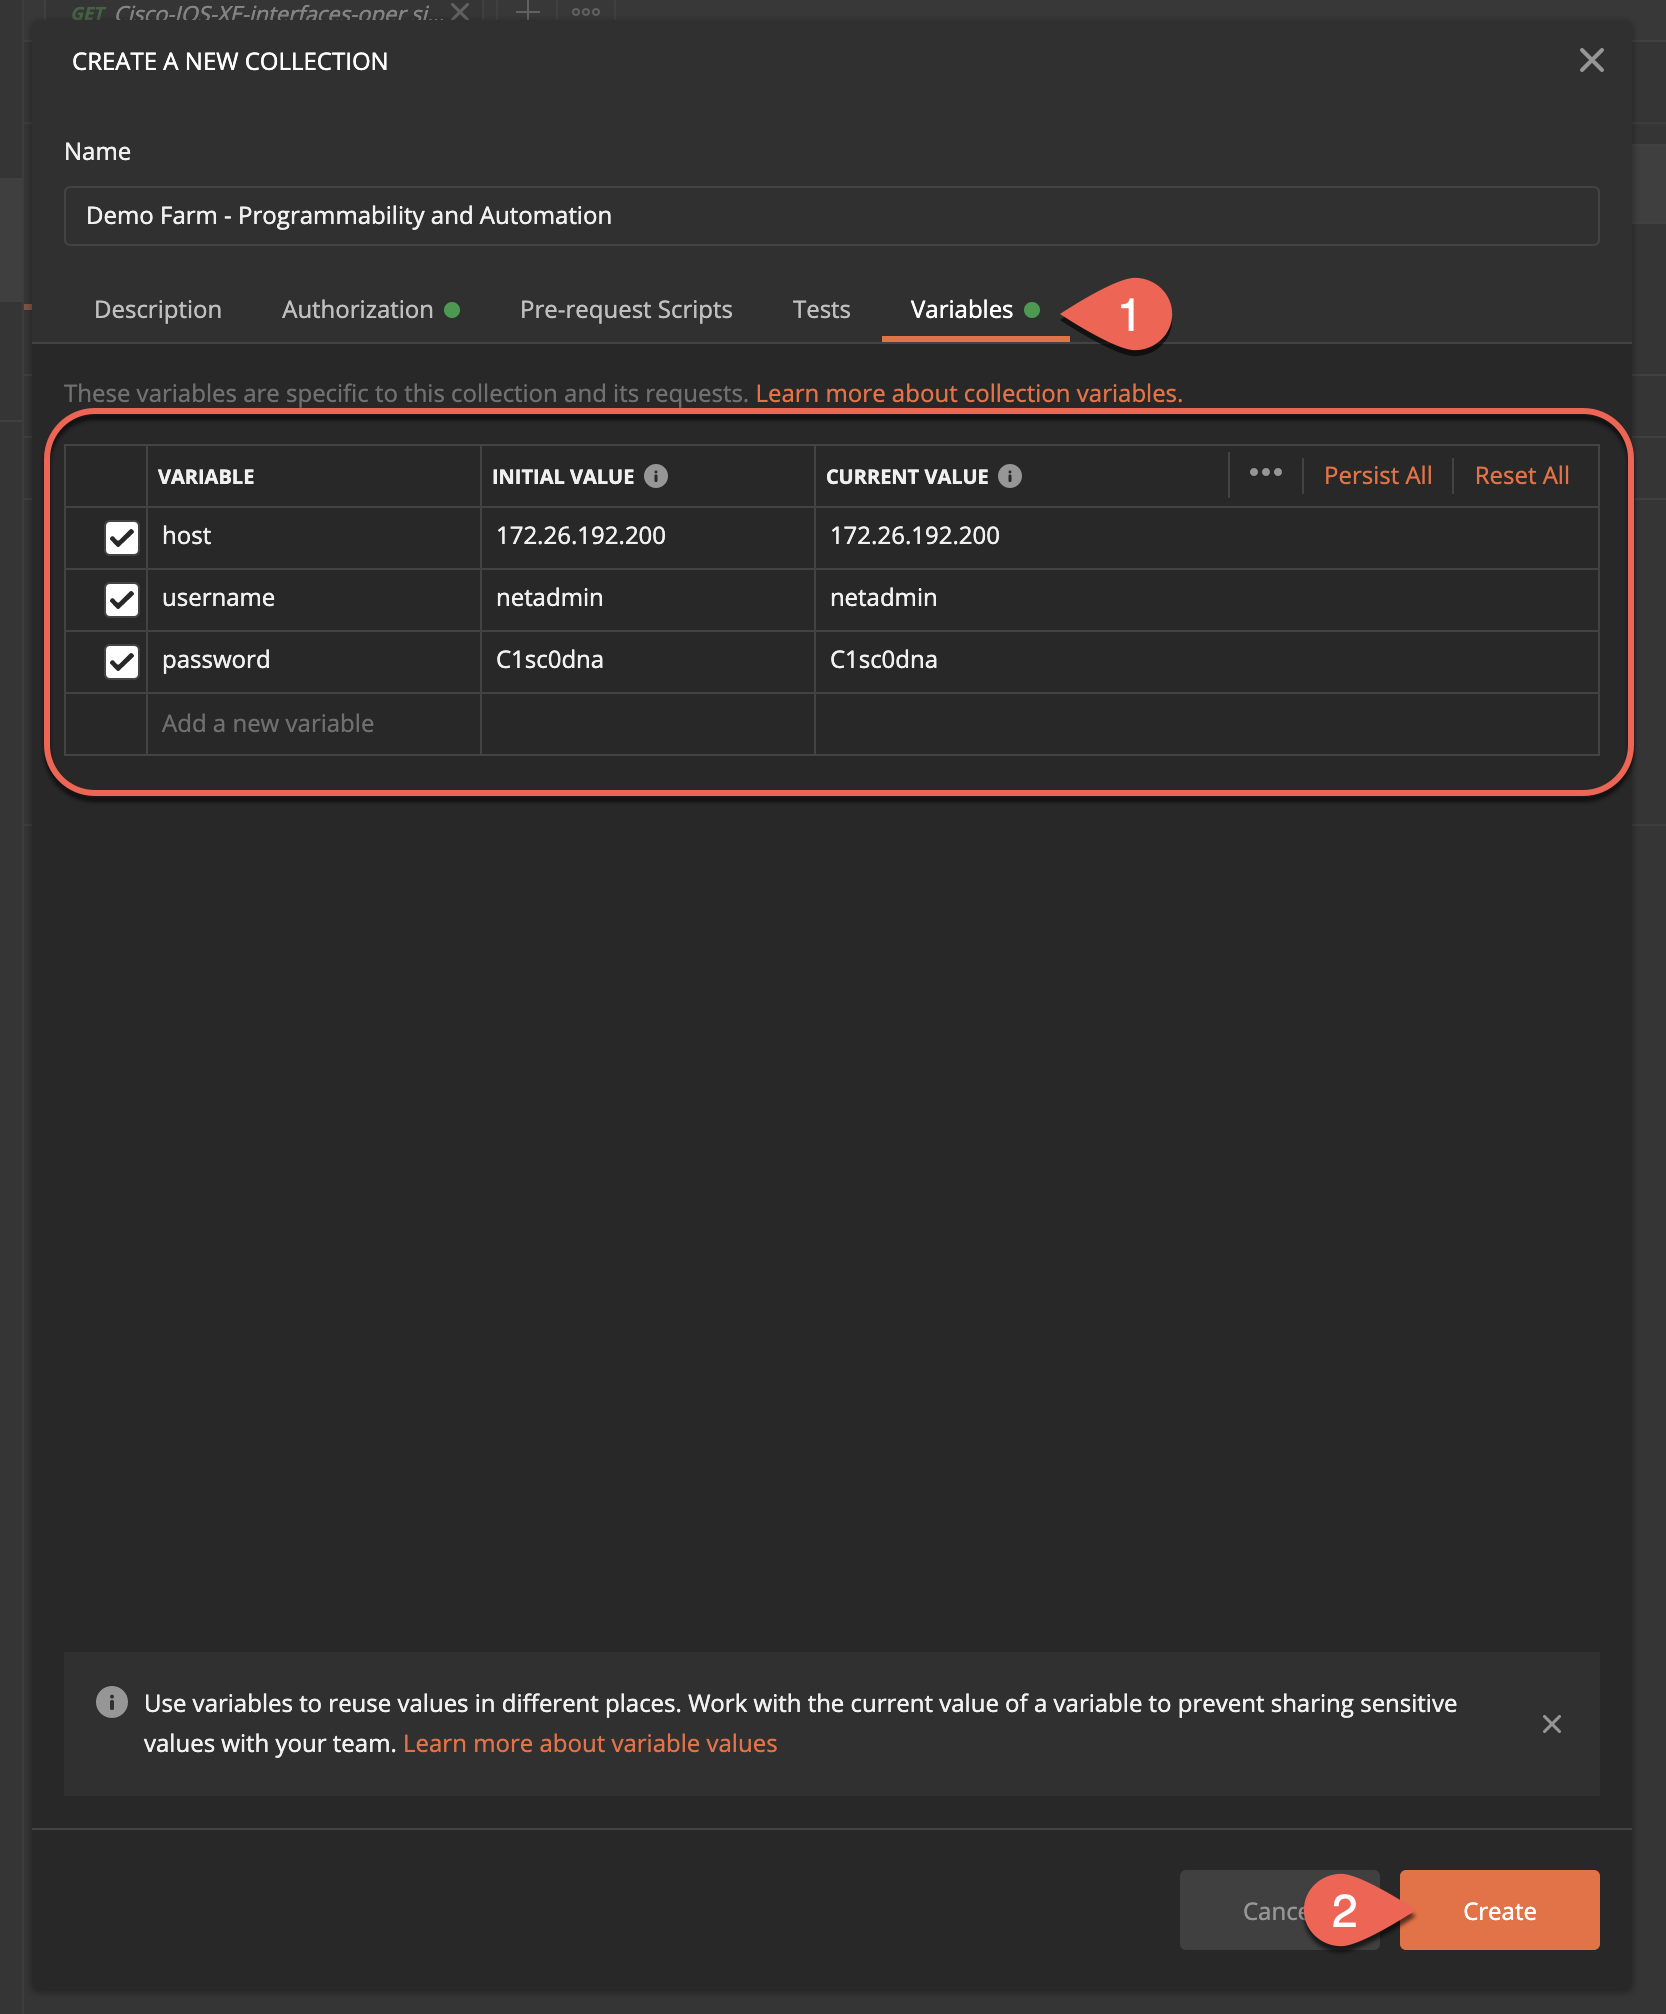
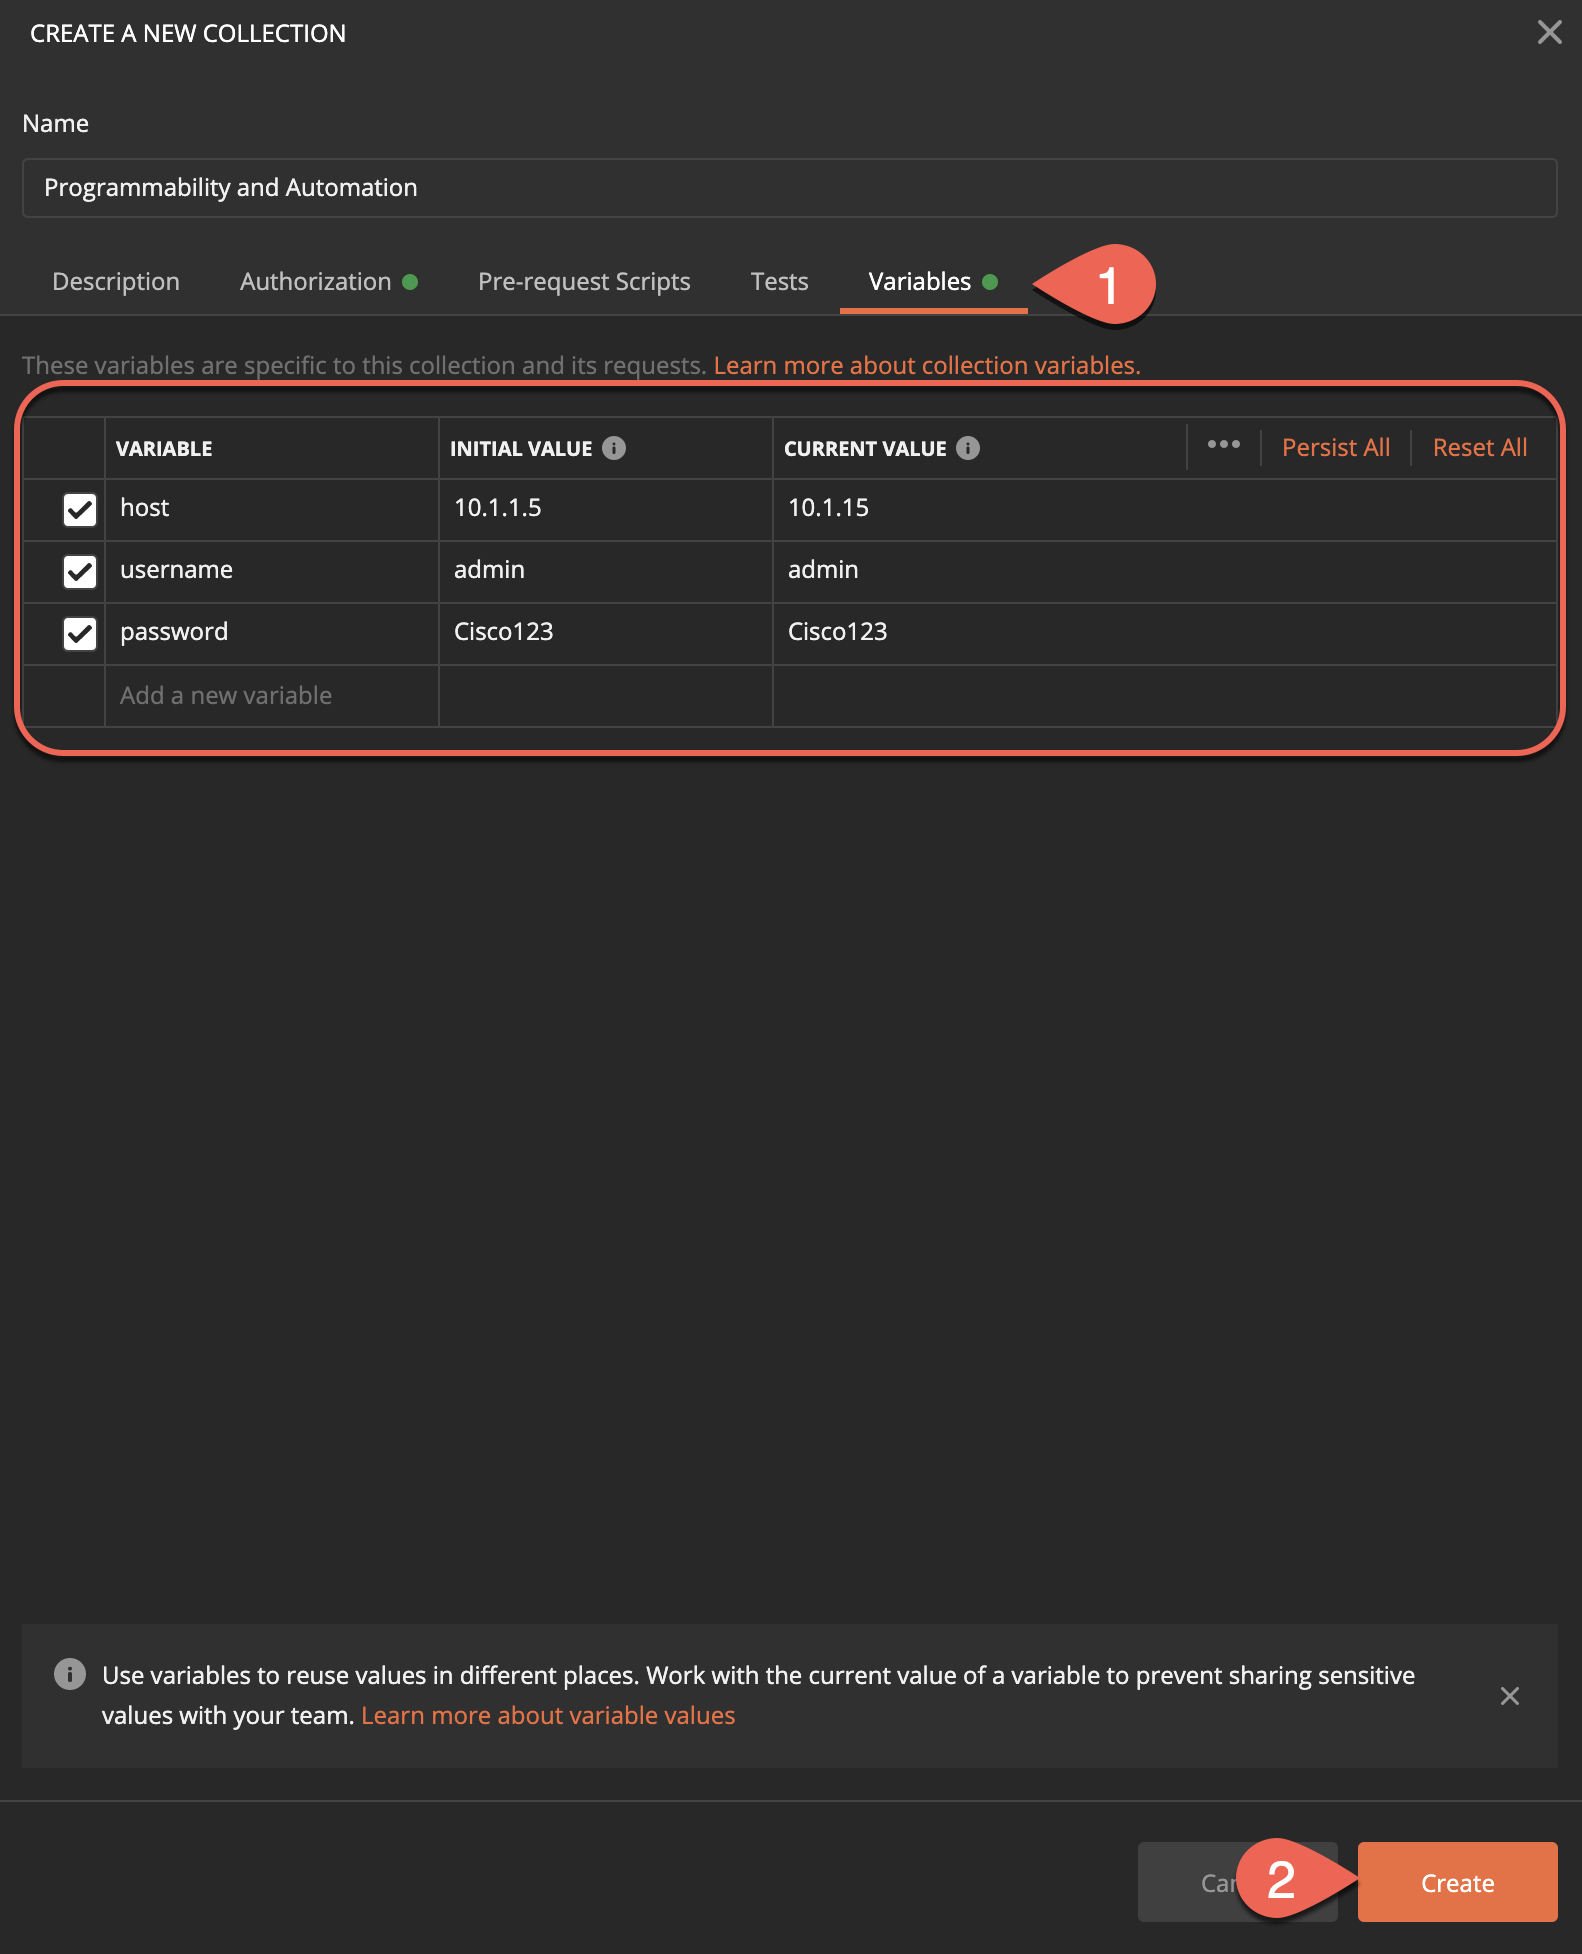
New changes

diff --git a/README.md b/README.md
@@ -44,7 +44,7 @@ aaa session-id common
 username admin privilege 15 secret 9 ....
 ```
 
-### Prerequisite steps: create Postman Collection
+#### Prerequisite steps: create Postman Collection
 
 These steps are already done for you!
 
@@ -70,9 +70,37 @@ Password: Cisco123
 1. Navigate to **"Variables"** tab and create the following new variables that we are going to use in this demo
 ```
       **Variable**      **Initial Value**       **Current Value**
-        host              10.1.1.5.               10.1.1.5.
+        host              10.1.1.5                10.1.1.5
         username          admin                   admin
         password          Cisco123                Cisco123
 ```
 
 2. Select **"Create"**
+
+![](imgs/Postman_Collection_Variables.png)
+
+#### Prerequisite step: Create Folder within the Collection
+
+These steps are already done for you!
+
+* Next to the collection that you have created, click on three dots.
+* Select **"Add Folder"**
+
+<img src="imgs/Postman_Add_Folder.png" width="700" height="800">
+<p></p>
+
+* Create a folder name - **"RESTCONF"**
+* Navigate to **"Authorization tab"**
+* For the type select **"Inherit auth from parent"**
+* Click on **"Create"**
+
+
+<img src="imgs/Postman_Folder_Settings.png" width="700" height="700">
+
+### Step 4: Create GET/PATCH/POST/DELETE API calls
+
+#### First API Call
+
+* Enter request URL where {{host}} is your variable 10.1.1.5
+https://{{host}}/restconf/data/ietf-interfaces:interfaces
+Navigate to "Authorization" and select "Inherit auth from parent"
